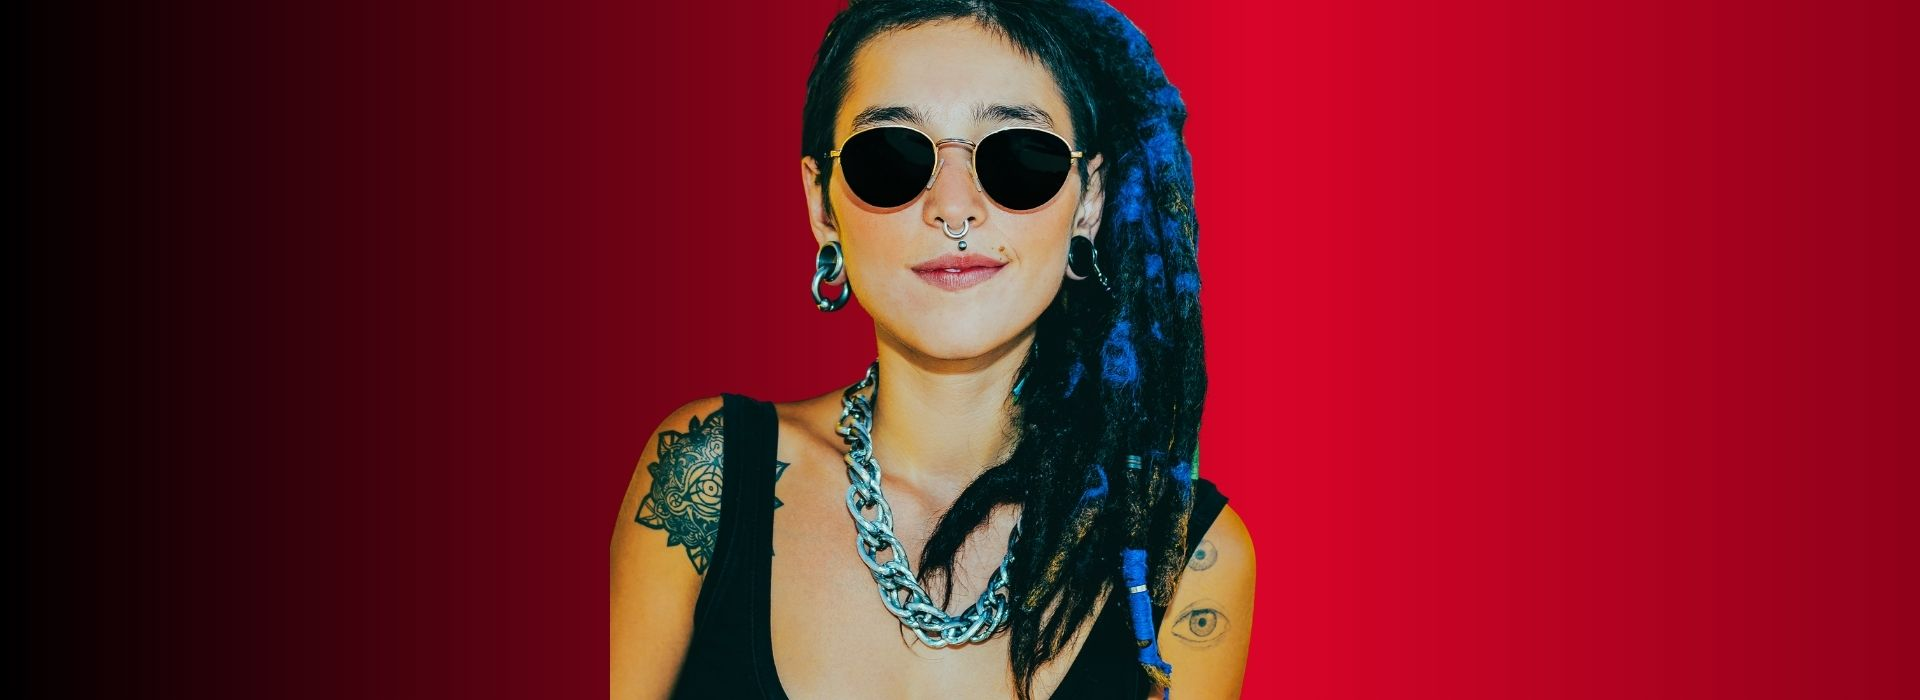
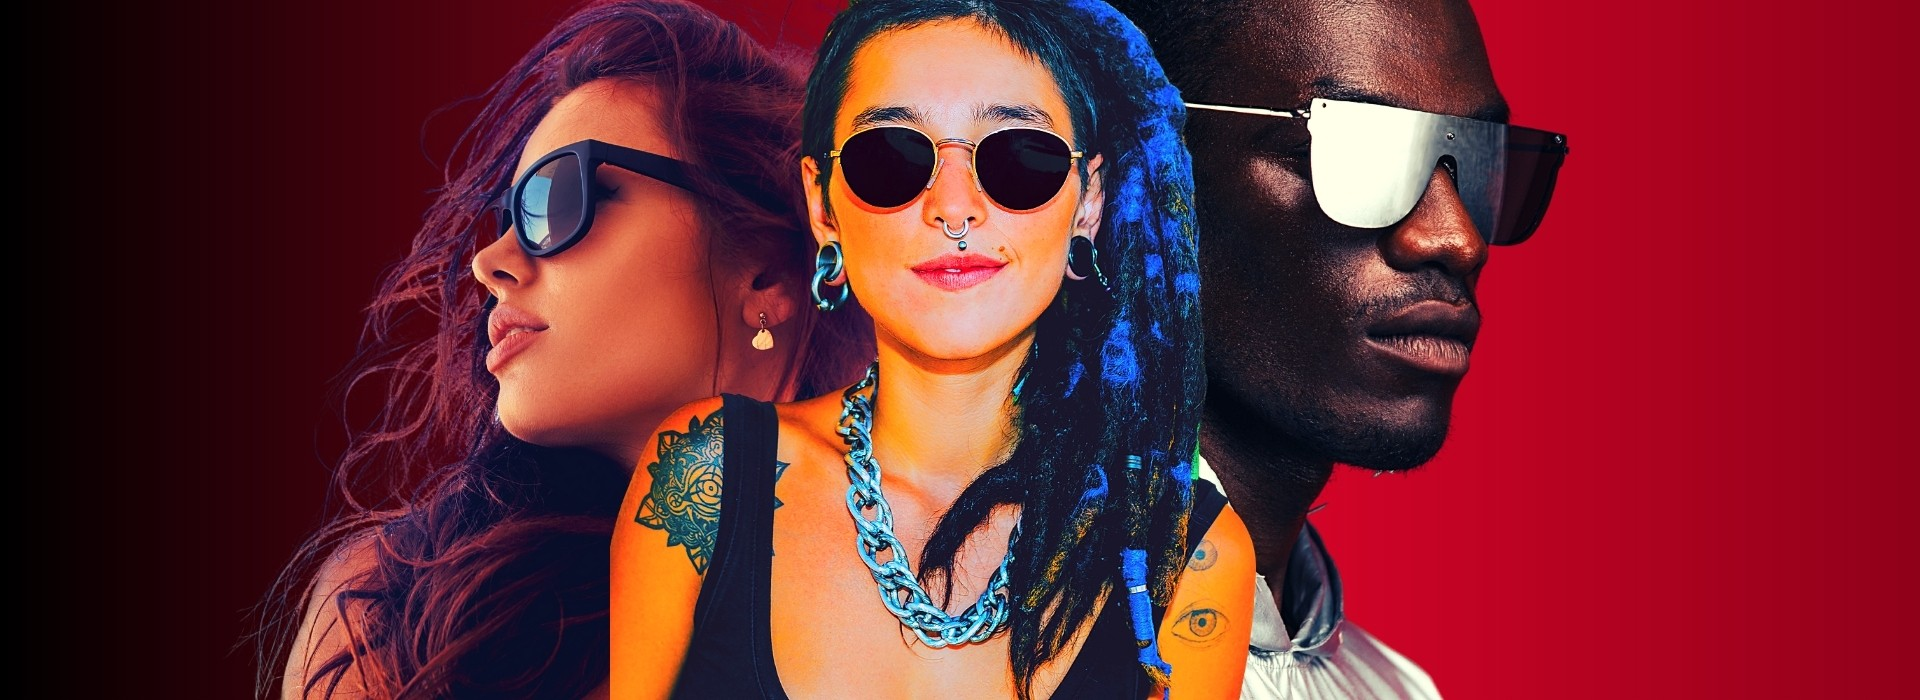
finish desktop version of hero background in dashboard and signout button. Also worked on incorporating the Deezer music player but currently trying to find a way to pass the track ids into the music player to play them.

diff --git a/pages/dashboard.js b/pages/dashboard.js
@@ -9,32 +9,12 @@ import Charts from './components/dashboard/charts/charts';
 import styles from '../styles/Home.module.scss';
 import { signIn, useSession } from 'next-auth/client';
 
+import MusicPlayer from './components/dashboard/player/player';
+
 // import { getSession } from 'next-auth/client';
 
 export default function Dashboard(props) {
   const [session, loading] = useSession();
-
-  const capitalizeFirstLetter = (str) => {
-    if(str.length > 15) str = str.substring(0,15) + '...';
-    return str
-      .toLowerCase()
-      .split(' ')
-      .map(function(word) {
-          return word[0].toUpperCase() + word.substr(1);
-    })
-    .join(' ');
-  };
-
-  const topTracks = props.chart.tracks.data.map((track) => {
-    return <Charts 
-              key={track.id}
-              trackimage={track.album.cover_medium}
-              tracknamelong={track.title_short}
-              trackname={capitalizeFirstLetter(track.title_short)}
-              trackartist={capitalizeFirstLetter(track.artist.name)}
-              trackpreview={track.preview}
-            />
-  });
 
   if (!session) {
     return (
@@ -51,10 +31,30 @@ export default function Dashboard(props) {
   }
 
   if (session) {
+
+    const topTracks = props.chart.tracks.data.map((track) => {
+      return <Charts 
+                key={track.id}
+                trackid={track.id}
+                trackimage={track.album.cover_medium}
+                tracknamelong={track.title_short}
+                trackname={track.title_short}
+                trackartist={track.artist.name}
+                trackpreview={track.preview}
+              />
+    });
+  
+    const getTrackId = (e) => {
+      const element = e.target || e.srcElement;
+      return element.id;
+    };
+
+    // console.log(topTracks);
+
     return (
 
       <Layout>
-          {/* {console.log(props.chart.tracks.data)} */}
+          {/* {console.log(topTracks.[0].props.trackid)} */}
           <DashboardLayout>
             <Navigation />
             <MainContainer>
@@ -62,6 +62,7 @@ export default function Dashboard(props) {
               <ChartsContainer>
                 {topTracks}
               </ChartsContainer>
+              <MusicPlayer musictrack={topTracks.[0].props.trackid} />
             </MainContainer>
           </DashboardLayout>
       </Layout>

diff --git a/pages/components/dashboard/charts/charts.js b/pages/components/dashboard/charts/charts.js
@@ -2,22 +2,40 @@ import styles from './charts.module.scss';
 import React from 'react';
 
 export default function Chart( props ) {
+    
+    const capitalizeFirstLetter = (str) => {
+        if(str.length > 15) str = str.substring(0,15) + '...';
+        return str
+          .toLowerCase()
+          .split(' ')
+          .map(function(word) {
+              return word[0].toUpperCase() + word.substr(1);
+        })
+        .join(' ');
+      };
+
+      const getTrackId = () => {
+        return props.trackid && console.log(props.trackid);
+        // return props.trackid;
+      };
 
     return (
             <div className={styles.chartsWrapper}>
-                <figure className={styles.chartsFigure}>
+                <figure id={props.trackid} onClick={getTrackId} className={styles.chartsFigure}>
+                    
                     <img 
                         className={styles.chartsImage} 
-                        src={props.trackimage} 
+                        src={props.trackimage}
                         alt={props.trackname} 
                         title={props.tracknamelong}/>
                     <div>
                         <figcaption className={styles.figContent}>
-                            <h4>{props.trackname}</h4>
-                            <p>{props.trackartist}</p>
-                            <audio controls>
+                            <h4>{capitalizeFirstLetter(props.trackname)}</h4>
+                            <p>{capitalizeFirstLetter(props.trackartist)}</p>
+                            {/* <audio controls>
                                 <source src={props.trackpreview} type="audio/mpeg"/>
-                            </audio>
+                            </audio> */}
+                            
                         </figcaption>
                     </div>
 

diff --git a/pages/api/auth/[...nextauth].js b/pages/api/auth/[...nextauth].js
@@ -13,14 +13,14 @@ const options = {
       clientId: process.env.GOOGLE_CLIENT_ID,
       clientSecret: process.env.GOOGLE_CLIENT_SECRET
     }),
-    Providers.Facebook({
-      clientId: process.env.FACEBOOK_CLIENT_ID,
-      clientSecret: process.env.FACEBOOK_CLIENT_SECRET
-    }),
-    Providers.Twitter({
-      clientId: process.env.TWITTER_CLIENT_ID,
-      clientSecret: process.env.TWITTER_CLIENT_SECRET
-    }),
+    // Providers.Facebook({
+    //   clientId: process.env.FACEBOOK_CLIENT_ID,
+    //   clientSecret: process.env.FACEBOOK_CLIENT_SECRET
+    // }),
+    // Providers.Twitter({
+    //   clientId: process.env.TWITTER_CLIENT_ID,
+    //   clientSecret: process.env.TWITTER_CLIENT_SECRET
+    // }),
     // Providers.GitHub({
     //   clientId: process.env.GITHUB_ID,
     //   clientSecret: process.env.GITHUB_SECRET
@@ -34,9 +34,9 @@ const options = {
     //   name: 'Deezer',
     //   type: 'oauth',
     //   version: '2.0',
-    //   scope: `basic_access-email`,
+    //   scope: `basic_access,email`,
     //   params: { grant_type: 'authorization_code' },
-    //   accessTokenUrl: `https://connect.deezer.com/oauth/access_token.php`,
+    //   accessTokenUrl: `https://connect.deezer.com/oauth/access_token.php?`,
     //   authorizationUrl: `https://connect.deezer.com/oauth/auth.php?response_type=token`,
     //   profileUrl: `https://api.deezer.com/user/me`,
     //   profile: (profile) => {

diff --git a/pages/components/dashboard/hero/hero.module.scss b/pages/components/dashboard/hero/hero.module.scss
@@ -1,10 +1,46 @@
+// Sass Variables
+$dashboardGray: #151620;
+$gray: #2B2D42;
+$lightGray: #8D99AE;
+$offWhite: #EDF2F4;
+$lightRed: #EF233C;
+$red: #D90429;
+$black: #000;
+$headerFont: 'Rubik', sans-serif;
+$bodyFont: 'Lato', sans-serif;
+
 .DashboardHero {
     width: 100%;
+    background-image: url('/dashboardhero.jpg');
+    background-size: cover;
+    background-repeat: no-repeat;
+    background-position: center;
+    height: 350px;
     overflow: hidden;
 }
 
-.signOutWrapper {
-    top: 0;
-    right: 0;
-    position: relative;
-}
+.linkWrapper {
+    margin-left: auto;
+    margin-right: 2rem;
+    text-align: center;
+    cursor: pointer;
+    width: 100px;
+    .link {
+      background-color: $lightRed;
+      font-family: $headerFont;
+      display: block;
+      padding: .5rem 1rem;
+      border: 1px solid $offWhite;
+      border-radius: 10px;
+      color: $offWhite;
+      font-size: .75rem;
+      font-weight: 700;
+      text-transform: uppercase;
+      margin-top: 1rem;
+      transition: .2s all ease-in-out;
+    }
+    .link:hover {
+      background-color: $black;
+      color: $lightRed;
+    }
+  }

diff --git a/pages/components/dashboard/hero/hero.js b/pages/components/dashboard/hero/hero.js
@@ -6,10 +6,9 @@ export default function DashboardHero () {
 
     return (
         <section>
-            <div>
-                <img className={styles.DashboardHero} src="/dashboardhero.jpg" />
-                <div className={styles.signOutWrapper}>
-                <a className={styles.signOut} onClick={signOut}>Sign Out</a>
+            <div className={styles.DashboardHero}>
+                <div className={styles.linkWrapper}>
+                    <a className={styles.link} onClick={() => signOut({ callbackUrl: 'http://localhost:3000/' })}>Sign Out</a>
               </div>
             </div>
 

diff --git a/pages/components/dashboard/containers/chartsContainer/chartsContainer.module.scss b/pages/components/dashboard/containers/chartsContainer/chartsContainer.module.scss
@@ -15,6 +15,31 @@ $bodyFont: 'Lato', sans-serif;
     overflow-y: scroll;
 }
 
+.chartsSection::-webkit-scrollbar {
+    width: 10px;
+  }
+
+/* Track */
+.chartsSection::-webkit-scrollbar-track {
+background: $black; 
+}
+
+/* Handle */
+.chartsSection::-webkit-scrollbar-thumb {
+background: $lightGray;
+border-radius: 10px;
+}
+
+/* Handle on hover */
+.chartsSection::-webkit-scrollbar-thumb:hover {
+background: #555;
+}
+
+.chartsSection,
+.chartsFigure {
+    box-sizing: border-box;
+}
+
 .chartsSection {
     color:$offWhite;
     padding: 3rem 2rem;

diff --git a/pages/components/dashboard/player/player.js b/pages/components/dashboard/player/player.js
@@ -1,0 +1,16 @@
+import React from 'react';
+import styles from './player.module.scss';
+
+export default function MusicPlayer(props) {
+
+
+    return (
+    <div>
+        <iframe className={styles.Player} scrolling="no" frameBorder="0" allowtransparency="true" src={`https://www.deezer.com/plugins/player?format=classic&autoplay=true&playlist=true&color=EF5466&layout=dark&size=medium&type=tracks&id=${props.musictrack}&app_id=443402`}></iframe>
+    </div>        
+
+    )
+}
+
+
+

diff --git a/pages/components/dashboard/charts/charts.module.scss b/pages/components/dashboard/charts/charts.module.scss
@@ -10,11 +10,6 @@ $black: #000;
 $headerFont: 'Rubik', sans-serif;
 $bodyFont: 'Lato', sans-serif;
 
-.chartsWrapper,
-.chartsFigure {
-    box-sizing: border-box;
-}
-
 .chartsWrapper {
     padding: 1rem 0;
 }
@@ -33,6 +28,7 @@ $bodyFont: 'Lato', sans-serif;
     text-align: center;
     transition: all 0.15s ease-in-out;
     border: 2px solid $dashboardGray;
+    cursor: pointer;
 }
 
 .chartsFigure:hover {

diff --git a/pages/components/dashboard/player/player.module.scss b/pages/components/dashboard/player/player.module.scss
@@ -1,0 +1,19 @@
+// Sass Variables
+$dashboardGray: #151620;
+$gray: #2B2D42;
+$lightGray: #8D99AE;
+$offWhite: #EDF2F4;
+$lightRed: #EF233C;
+$red: #D90429;
+$black: #000;
+$headerFont: 'Rubik', sans-serif;
+$bodyFont: 'Lato', sans-serif;
+
+.Player {
+    width: 100%;
+    height: 90px;
+    margin-bottom: 10px;
+    padding: 0 10px;
+    border-radius: 1rem;
+    background-color: $dashboardGray;
+}

diff --git a/pages/auth/signin.js b/pages/auth/signin.js
@@ -17,7 +17,6 @@ export default function SignIn({ providers }) {
         
           {Object.values(providers).map(provider => (
 
-
               <div 
                   className={styles.linkWrapper} 
                   key={provider.name}>

diff --git a/pages/components/dashboard/dashboardLayout.module.scss b/pages/components/dashboard/dashboardLayout.module.scss
@@ -14,7 +14,7 @@ $bodyFont: 'Lato', sans-serif;
     width: 90vw;
     max-width: 1285px;
     height: 80vh;
-    border-radius: 2rem;
+    border-radius: 1rem;
     display: flex;
     overflow: hidden;
 }

diff --git a/README.md b/README.md
@@ -6,13 +6,23 @@ After lots of consideration, it looks like I'll be using [Deezer](https://www.de
 
 ### Functionality wants/needs
 - oAuth Login
-- Create Playlist
+- Weekly Top Tracks
 - Favorites
 - Search Bar
+- Radio
+- Podcast
 - Music Player
 - Mobile Responsiveness (how in the world will this look on mobile o.0)
 
 ### The Firebolt Journey/Journal
+
+#### 12/7/2020
+
+Adjusted the hero image in dashboard to be a background image and set the signout button in the top right corner. Also added in an embedded Deezer music player, this might save me some time from having to build one out entirely which initself would have been a project. But we'll see if I may need to down the road.
+
+I am currently trying to get the Deezer music player to take the id's of the weekly tracks. Currently I can get the ids of the tracks to show when I click on weekly tracks in console.log which is what I need to pass into the music player to play it but I am stuck on how I can pass information from the charts component to the music player component. 
+
+Since they're both children components I am not sure if I can pass the id I need between one another. I may have to adjust the charts to be a parent component of the music player component. I will need to do more research.
 
 #### 12/6/2020
 
